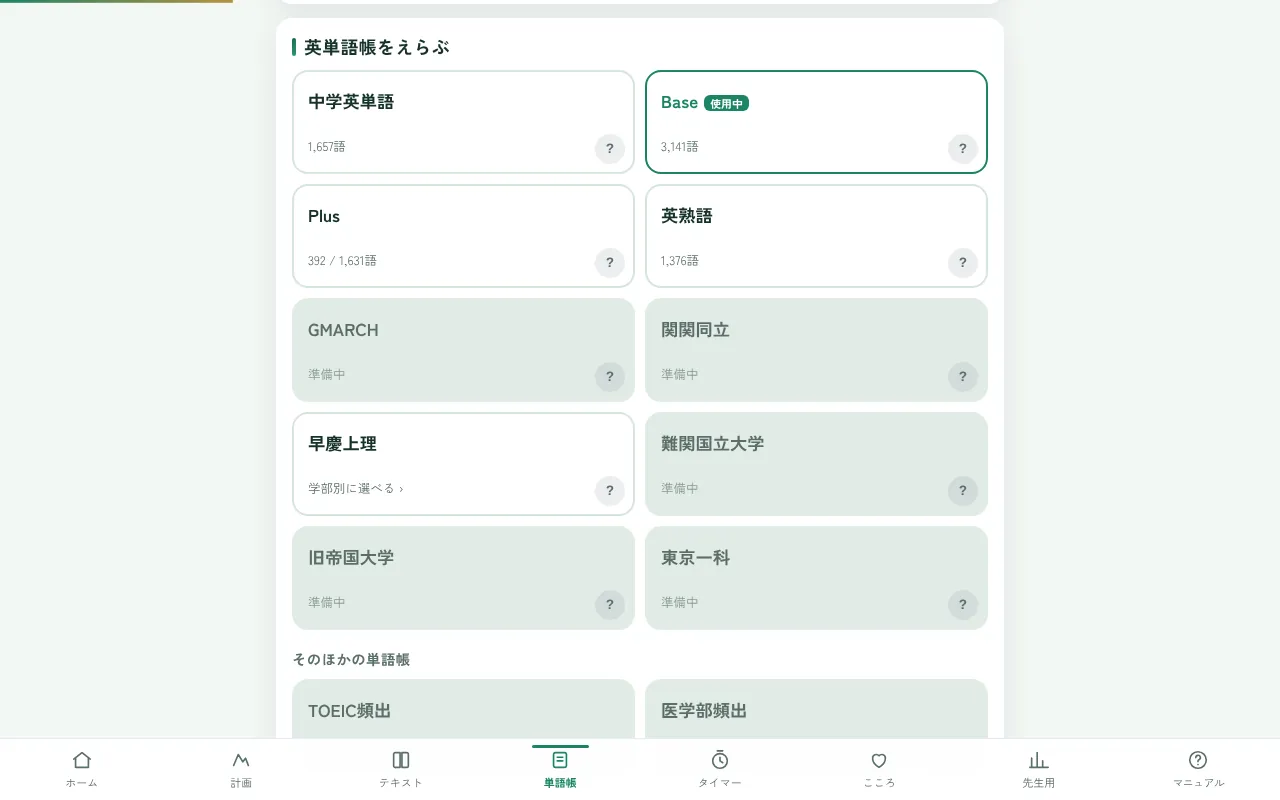
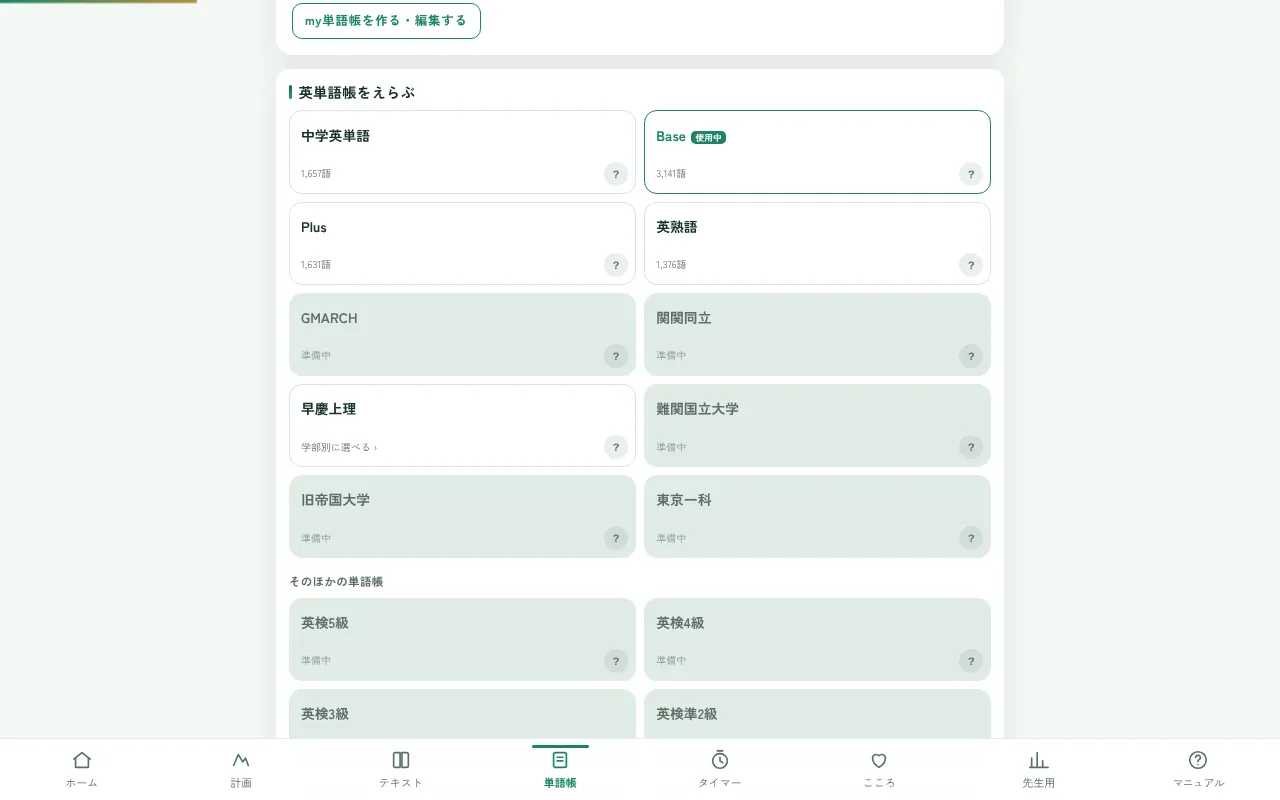
ホームページ:単語帳のハイライト写真を撮り直し(英検の枠を写し、Plusの入力途中の数は写さない)
Claude-Session: https://claude.ai/code/session_01LBACWHU1zm5FViu8vPc4HC

Changed region(s): [[0.2188, 0.0, 0.7812, 0.9062], [0.1562, 0.0, 0.1875, 0.0312]]

diff --git a/home.html b/home.html
@@ -160,13 +160,13 @@
     <li><em>一問一答</em><p><b>344</b><span>問</span></p><small>日本史147問・<br>世界史197問</small></li>
     <li><em>論述</em><p><b>48</b><span>題</span></p><small>歴史の論述<br>トレーニング</small></li>
   </ul>
-  <ul class="hl-circles" aria-label="ハイライト"><li><button type="button" class="hlc" data-hl="0" aria-label="ホーム のハイライトを見る(2枚)"><span class="hlc-ring"><img src="img/hl/home1_s.webp?v=20261109" width="160" height="160" alt="Aqualium アプリの「ホーム」画面" loading="lazy"></span><b>ホーム</b></button></li><li><button type="button" class="hlc" data-hl="1" aria-label="分析 のハイライトを見る(3枚)"><span class="hlc-ring"><img src="img/hl/ana1_s.webp?v=20261109" width="160" height="160" alt="Aqualium アプリの「分析」画面" loading="lazy"></span><b>分析</b></button></li><li><button type="button" class="hlc" data-hl="2" aria-label="テキスト のハイライトを見る(4枚)"><span class="hlc-ring"><img src="img/hl/txt3_s.webp?v=20261109" width="160" height="160" alt="Aqualium アプリの「テキスト」画面" loading="lazy"></span><b>テキスト</b></button></li><li><button type="button" class="hlc" data-hl="3" aria-label="歴史の図解 のハイライトを見る(3枚)"><span class="hlc-ring"><img src="img/hl/zk1_s.webp?v=20261109" width="160" height="160" alt="Aqualium アプリの「歴史の図解」画面" loading="lazy"></span><b>歴史の図解</b></button></li><li><button type="button" class="hlc" data-hl="4" aria-label="解説・資料 のハイライトを見る(3枚)"><span class="hlc-ring"><img src="img/hl/kit1_s.webp?v=20261109" width="160" height="160" alt="Aqualium アプリの「解説・資料」画面" loading="lazy"></span><b>解説・資料</b></button></li><li><button type="button" class="hlc" data-hl="5" aria-label="計画 のハイライトを見る(3枚)"><span class="hlc-ring"><img src="img/hl/plan1_s.webp?v=20261109" width="160" height="160" alt="Aqualium アプリの「計画」画面" loading="lazy"></span><b>計画</b></button></li><li><button type="button" class="hlc" data-hl="6" aria-label="単語帳 のハイライトを見る(3枚)"><span class="hlc-ring"><img src="img/hl/voc1_s.webp?v=20261109" width="160" height="160" alt="Aqualium アプリの「単語帳」画面" loading="lazy"></span><b>単語帳</b></button></li><li><button type="button" class="hlc" data-hl="7" aria-label="日本史・世界史 のハイライトを見る(2枚)"><span class="hlc-ring"><img src="img/hl/his1_s.webp?v=20261109" width="160" height="160" alt="Aqualium アプリの「日本史・世界史」画面" loading="lazy"></span><b>日本史・世界史</b></button></li><li><button type="button" class="hlc" data-hl="8" aria-label="模試モード のハイライトを見る(1枚)"><span class="hlc-ring"><img src="img/hl/mock1_s.webp?v=20261109" width="160" height="160" alt="Aqualium アプリの「模試モード」画面" loading="lazy"></span><b>模試モード</b></button></li><li><button type="button" class="hlc" data-hl="9" aria-label="先生・保護者 のハイライトを見る(2枚)"><span class="hlc-ring"><img src="img/hl/tut1_s.webp?v=20261109" width="160" height="160" alt="Aqualium アプリの「先生・保護者」画面" loading="lazy"></span><b>先生・保護者</b></button></li></ul>
-  <ul class="hl-list fade"><li><button type="button" class="hl-item" data-hl="0"><img class="hl-item-img" src="img/hl/home1_s.webp?v=20261109" width="160" height="160" alt="Aqualium アプリの「ホーム」画面" loading="lazy"><span class="hl-item-n">01</span><b>ホーム</b><small>いま一番効果の高い学習を、アプリが1つだけ示します。迷ったら、ここを押すだけ。</small><em>2枚の画面を見る ▶</em></button></li><li><button type="button" class="hl-item" data-hl="1"><img class="hl-item-img" src="img/hl/ana1_s.webp?v=20261109" width="160" height="160" alt="Aqualium アプリの「分析」画面" loading="lazy"><span class="hl-item-n">02</span><b>分析</b><small>現代文・古文・漢文、日本史・世界史…。科目ごとの正答率をレーダーチャートで。1か月前の自分とも比べられます。</small><em>3枚の画面を見る ▶</em></button></li><li><button type="button" class="hl-item" data-hl="2"><img class="hl-item-img" src="img/hl/txt3_s.webp?v=20261109" width="160" height="160" alt="Aqualium アプリの「テキスト」画面" loading="lazy"><span class="hl-item-n">03</span><b>テキスト</b><small>中学から高校まで、科目ごとの教科書が本棚に並びます。全286単元に、知識ゼロから読める解説。</small><em>4枚の画面を見る ▶</em></button></li><li><button type="button" class="hl-item" data-hl="3"><img class="hl-item-img" src="img/hl/zk1_s.webp?v=20261109" width="160" height="160" alt="Aqualium アプリの「歴史の図解」画面" loading="lazy"><span class="hl-item-n">04</span><b>歴史の図解</b><small>地域ごとの流れと、世界全体をまきこむ大事件を、色ブロックで1枚に。</small><em>3枚の画面を見る ▶</em></button></li><li><button type="button" class="hl-item" data-hl="4"><img class="hl-item-img" src="img/hl/kit1_s.webp?v=20261109" width="160" height="160" alt="Aqualium アプリの「解説・資料」画面" loading="lazy"><span class="hl-item-n">05</span><b>解説・資料</b><small>答えのあとに「ほかの意味」やくわしい解説。元素の周期表と世界地図も、どのページからでも開けます。</small><em>3枚の画面を見る ▶</em></button></li><li><button type="button" class="hl-item" data-hl="5"><img class="hl-item-img" src="img/hl/plan1_s.webp?v=20261109" width="160" height="160" alt="Aqualium アプリの「計画」画面" loading="lazy"><span class="hl-item-n">06</span><b>計画</b><small>志望校と受験日から、残り日数と目標を自動で設定します。</small><em>3枚の画面を見る ▶</em></button></li><li><button type="button" class="hl-item" data-hl="6"><img class="hl-item-img" src="img/hl/voc1_s.webp?v=20261109" width="160" height="160" alt="Aqualium アプリの「単語帳」画面" loading="lazy"><span class="hl-item-n">07</span><b>単語帳</b><small>中学英単語・Base・Plus・英熟語・早慶上理(学部別)・古文単語。苦手だけを集めた「覚える単語帳」も作れます。</small><em>3枚の画面を見る ▶</em></button></li><li><button type="button" class="hl-item" data-hl="7"><img class="hl-item-img" src="img/hl/his1_s.webp?v=20261109" width="160" height="160" alt="Aqualium アプリの「日本史・世界史」画面" loading="lazy"><span class="hl-item-n">08</span><b>日本史・世界史</b><small>時代(ヨコ)と分野(タテ)で範囲をしぼって出題。苦手な問題の聞き流しもできます。</small><em>2枚の画面を見る ▶</em></button></li><li><button type="button" class="hl-item" data-hl="8"><img class="hl-item-img" src="img/hl/mock1_s.webp?v=20261109" width="160" height="160" alt="Aqualium アプリの「模試モード」画面" loading="lazy"><span class="hl-item-n">09</span><b>模試モード</b><small>時間を計って解き、最後にまとめて採点。科目別の得点率と時間配分を分析します。</small><em>1枚の画面を見る ▶</em></button></li><li><button type="button" class="hl-item" data-hl="9"><img class="hl-item-img" src="img/hl/tut1_s.webp?v=20261109" width="160" height="160" alt="Aqualium アプリの「先生・保護者」画面" loading="lazy"><span class="hl-item-n">10</span><b>先生・保護者</b><small>苦手の原因・ミスの傾向・週のまとめを1枚に。授業や面談でそのまま使えます。</small><em>2枚の画面を見る ▶</em></button></li></ul>
+  <ul class="hl-circles" aria-label="ハイライト"><li><button type="button" class="hlc" data-hl="0" aria-label="ホーム のハイライトを見る(2枚)"><span class="hlc-ring"><img src="img/hl/home1_s.webp?v=20261109" width="160" height="160" alt="Aqualium アプリの「ホーム」画面" loading="lazy"></span><b>ホーム</b></button></li><li><button type="button" class="hlc" data-hl="1" aria-label="分析 のハイライトを見る(3枚)"><span class="hlc-ring"><img src="img/hl/ana1_s.webp?v=20261109" width="160" height="160" alt="Aqualium アプリの「分析」画面" loading="lazy"></span><b>分析</b></button></li><li><button type="button" class="hlc" data-hl="2" aria-label="テキスト のハイライトを見る(4枚)"><span class="hlc-ring"><img src="img/hl/txt3_s.webp?v=20261109" width="160" height="160" alt="Aqualium アプリの「テキスト」画面" loading="lazy"></span><b>テキスト</b></button></li><li><button type="button" class="hlc" data-hl="3" aria-label="歴史の図解 のハイライトを見る(3枚)"><span class="hlc-ring"><img src="img/hl/zk1_s.webp?v=20261109" width="160" height="160" alt="Aqualium アプリの「歴史の図解」画面" loading="lazy"></span><b>歴史の図解</b></button></li><li><button type="button" class="hlc" data-hl="4" aria-label="解説・資料 のハイライトを見る(3枚)"><span class="hlc-ring"><img src="img/hl/kit1_s.webp?v=20261109" width="160" height="160" alt="Aqualium アプリの「解説・資料」画面" loading="lazy"></span><b>解説・資料</b></button></li><li><button type="button" class="hlc" data-hl="5" aria-label="計画 のハイライトを見る(3枚)"><span class="hlc-ring"><img src="img/hl/plan1_s.webp?v=20261109" width="160" height="160" alt="Aqualium アプリの「計画」画面" loading="lazy"></span><b>計画</b></button></li><li><button type="button" class="hlc" data-hl="6" aria-label="単語帳 のハイライトを見る(3枚)"><span class="hlc-ring"><img src="img/hl/voc1_s.webp?v=20261109c" width="160" height="160" alt="Aqualium アプリの「単語帳」画面" loading="lazy"></span><b>単語帳</b></button></li><li><button type="button" class="hlc" data-hl="7" aria-label="日本史・世界史 のハイライトを見る(2枚)"><span class="hlc-ring"><img src="img/hl/his1_s.webp?v=20261109" width="160" height="160" alt="Aqualium アプリの「日本史・世界史」画面" loading="lazy"></span><b>日本史・世界史</b></button></li><li><button type="button" class="hlc" data-hl="8" aria-label="模試モード のハイライトを見る(1枚)"><span class="hlc-ring"><img src="img/hl/mock1_s.webp?v=20261109" width="160" height="160" alt="Aqualium アプリの「模試モード」画面" loading="lazy"></span><b>模試モード</b></button></li><li><button type="button" class="hlc" data-hl="9" aria-label="先生・保護者 のハイライトを見る(2枚)"><span class="hlc-ring"><img src="img/hl/tut1_s.webp?v=20261109" width="160" height="160" alt="Aqualium アプリの「先生・保護者」画面" loading="lazy"></span><b>先生・保護者</b></button></li></ul>
+  <ul class="hl-list fade"><li><button type="button" class="hl-item" data-hl="0"><img class="hl-item-img" src="img/hl/home1_s.webp?v=20261109" width="160" height="160" alt="Aqualium アプリの「ホーム」画面" loading="lazy"><span class="hl-item-n">01</span><b>ホーム</b><small>いま一番効果の高い学習を、アプリが1つだけ示します。迷ったら、ここを押すだけ。</small><em>2枚の画面を見る ▶</em></button></li><li><button type="button" class="hl-item" data-hl="1"><img class="hl-item-img" src="img/hl/ana1_s.webp?v=20261109" width="160" height="160" alt="Aqualium アプリの「分析」画面" loading="lazy"><span class="hl-item-n">02</span><b>分析</b><small>現代文・古文・漢文、日本史・世界史…。科目ごとの正答率をレーダーチャートで。1か月前の自分とも比べられます。</small><em>3枚の画面を見る ▶</em></button></li><li><button type="button" class="hl-item" data-hl="2"><img class="hl-item-img" src="img/hl/txt3_s.webp?v=20261109" width="160" height="160" alt="Aqualium アプリの「テキスト」画面" loading="lazy"><span class="hl-item-n">03</span><b>テキスト</b><small>中学から高校まで、科目ごとの教科書が本棚に並びます。全286単元に、知識ゼロから読める解説。</small><em>4枚の画面を見る ▶</em></button></li><li><button type="button" class="hl-item" data-hl="3"><img class="hl-item-img" src="img/hl/zk1_s.webp?v=20261109" width="160" height="160" alt="Aqualium アプリの「歴史の図解」画面" loading="lazy"><span class="hl-item-n">04</span><b>歴史の図解</b><small>地域ごとの流れと、世界全体をまきこむ大事件を、色ブロックで1枚に。</small><em>3枚の画面を見る ▶</em></button></li><li><button type="button" class="hl-item" data-hl="4"><img class="hl-item-img" src="img/hl/kit1_s.webp?v=20261109" width="160" height="160" alt="Aqualium アプリの「解説・資料」画面" loading="lazy"><span class="hl-item-n">05</span><b>解説・資料</b><small>答えのあとに「ほかの意味」やくわしい解説。元素の周期表と世界地図も、どのページからでも開けます。</small><em>3枚の画面を見る ▶</em></button></li><li><button type="button" class="hl-item" data-hl="5"><img class="hl-item-img" src="img/hl/plan1_s.webp?v=20261109" width="160" height="160" alt="Aqualium アプリの「計画」画面" loading="lazy"><span class="hl-item-n">06</span><b>計画</b><small>志望校と受験日から、残り日数と目標を自動で設定します。</small><em>3枚の画面を見る ▶</em></button></li><li><button type="button" class="hl-item" data-hl="6"><img class="hl-item-img" src="img/hl/voc1_s.webp?v=20261109c" width="160" height="160" alt="Aqualium アプリの「単語帳」画面" loading="lazy"><span class="hl-item-n">07</span><b>単語帳</b><small>中学英単語・Base・Plus・英熟語・早慶上理(学部別)・古文単語。苦手だけを集めた「覚える単語帳」も作れます。</small><em>3枚の画面を見る ▶</em></button></li><li><button type="button" class="hl-item" data-hl="7"><img class="hl-item-img" src="img/hl/his1_s.webp?v=20261109" width="160" height="160" alt="Aqualium アプリの「日本史・世界史」画面" loading="lazy"><span class="hl-item-n">08</span><b>日本史・世界史</b><small>時代(ヨコ)と分野(タテ)で範囲をしぼって出題。苦手な問題の聞き流しもできます。</small><em>2枚の画面を見る ▶</em></button></li><li><button type="button" class="hl-item" data-hl="8"><img class="hl-item-img" src="img/hl/mock1_s.webp?v=20261109" width="160" height="160" alt="Aqualium アプリの「模試モード」画面" loading="lazy"><span class="hl-item-n">09</span><b>模試モード</b><small>時間を計って解き、最後にまとめて採点。科目別の得点率と時間配分を分析します。</small><em>1枚の画面を見る ▶</em></button></li><li><button type="button" class="hl-item" data-hl="9"><img class="hl-item-img" src="img/hl/tut1_s.webp?v=20261109" width="160" height="160" alt="Aqualium アプリの「先生・保護者」画面" loading="lazy"><span class="hl-item-n">10</span><b>先生・保護者</b><small>苦手の原因・ミスの傾向・週のまとめを1枚に。授業や面談でそのまま使えます。</small><em>2枚の画面を見る ▶</em></button></li></ul>
   <div class="hl-cta fade">
     <p>気になる機能は見つかりましたか?<br>まずは無料体験で、<br class="sp">実際に使ってみてください。</p>
     <a href="#contact" class="btn btn-primary">無料体験を申し込む</a>
   </div>
-  <script type="application/json" id="hlData">[{"id": "home", "name": "ホーム", "slides": [{"img": "img/hl/home1.webp?v=20261109", "t": "次の一手", "d": "いま一番効果の高い学習を、アプリが1つだけ示します。迷ったら、ここを押すだけ。"}, {"img": "img/hl/home3.webp?v=20261109", "t": "診断・練習", "d": "ホームの上のタブで切りかえ。診断テストで、中学の単元までさかのぼって苦手の原因を探します。"}]}, {"id": "ana", "name": "分析", "slides": [{"img": "img/hl/ana1.webp?v=20261109", "t": "科目バランス", "d": "現代文・古文・漢文、日本史・世界史…。科目ごとの正答率をレーダーチャートで。1か月前の自分とも比べられます。"}, {"img": "img/hl/ana2.webp?v=20261109", "t": "ミスの原因", "d": "「ケアレスミス」「覚えていなかった」など、まちがえた理由を集計。いちばん多い原因と対策がわかります。"}, {"img": "img/hl/ana3.webp?v=20261109", "t": "今週のまとめ", "d": "学習日数・時間・解いた問題・正答率を、先週と比べて表示。伸びたところがひと目でわかります。"}]}, {"id": "txt", "name": "テキスト", "slides": [{"img": "img/hl/txt1.webp?v=20261109", "t": "科目ごとの本棚", "d": "中学から高校まで、科目ごとの教科書が本棚に並びます。続きからすぐ読めます。"}, {"img": "img/hl/txt2.webp?v=20261109", "t": "目次", "d": "章と単元の一覧。読んだ単元・しおり・苦手な単元に印がつきます。"}, {"img": "img/hl/txt3.webp?v=20261109", "t": "知識ゼロから読める本文", "d": "「できるようになること → イメージ → 説明」の順。全286単元に解説があります。"}, {"img": "img/hl/txt4.webp?v=20261109", "t": "黒板の例題", "d": "考え方を1手順ずつ。読み終えたら、そのまま確認問題を解けます。"}]}, {"id": "zk", "name": "歴史の図解", "slides": [{"img": "img/hl/zk1.webp?v=20261109", "t": "世界史の流れ", "d": "地域ごとの流れと、世界全体をまきこむ大事件を、色ブロックで1枚に。"}, {"img": "img/hl/zk2.webp?v=20261109", "t": "模式地図", "d": "清の直轄領・藩部・朝貢国などを、位置関係で整理します。"}, {"img": "img/hl/zk3.webp?v=20261109", "t": "因果の鎖", "d": "背景 → できごと → 結果 → その後。なぜ起きて、どうなったかがつながります。"}]}, {"id": "kit", "name": "解説・資料", "slides": [{"img": "img/hl/kit1.webp?v=20261109", "t": "もっと知る", "d": "答えたあとに、くわしい解説と、語句の「ほかの意味」・使い方を表示。1語から何倍も学べます。"}, {"img": "img/hl/kit2.webp?v=20261109", "t": "元素の周期表", "d": "どのページを開いていても、すぐに呼び出せます。元素を押すと、原子量・分類・常温での状態まで。"}, {"img": "img/hl/kit3.webp?v=20261109", "t": "国名入りの世界地図", "d": "日本中心の地図に、国名と主な都市(首都など約100)。指で拡大・移動でき、国名で探すとその国まで移動します。最小化して勉強と並べて使えます。"}]}, {"id": "plan", "name": "計画", "slides": [{"img": "img/hl/plan1.webp?v=20261109", "t": "逆算ロードマップ", "d": "志望校と受験日から、残り日数と目標を自動で設定します。"}, {"img": "img/hl/plan2.webp?v=20261109", "t": "受験日までのタイムライン", "d": "単元・英単語・古文単語・一問一答の進め方を、1本の線で見渡せます。"}, {"img": "img/hl/plan3.webp?v=20261109", "t": "単元マップ", "d": "全単元の定着度を色で表示。忘れかけている単元もすぐ見つかります。"}]}, {"id": "voc", "name": "単語帳", "slides": [{"img": "img/hl/voc1.webp?v=20261109", "t": "単語帳を選ぶ", "d": "中学英単語・Base・Plus・英熟語・早慶上理(学部別)・古文単語。苦手だけを集めた「覚える単語帳」も作れます。"}, {"img": "img/hl/voc2.webp?v=20261109", "t": "学び方を選ぶ", "d": "赤シート・苦手選別・聞き流し・スワイプなど、気分や場所に合わせて選べます。"}, {"img": "img/hl/voc3.webp?v=20261109", "t": "4択テスト", "d": "テンポよく答えて、まちがえた語は自動で復習に回ります。"}]}, {"id": "his", "name": "日本史・世界史", "slides": [{"img": "img/hl/his1.webp?v=20261109", "t": "一問一答", "d": "時代(ヨコ)と分野(タテ)で範囲をしぼって出題。苦手な問題の聞き流しもできます。"}, {"img": "img/hl/his2.webp?v=20261109", "t": "論述トレーニング", "d": "答えを考えてから、模範解答のキーワードで自己採点します。"}]}, {"id": "mock", "name": "模試モード", "slides": [{"img": "img/hl/mock1.webp?v=20261109", "t": "本番形式の模試", "d": "時間を計って解き、最後にまとめて採点。科目別の得点率と時間配分を分析します。"}]}, {"id": "tut", "name": "先生・保護者", "slides": [{"img": "img/hl/tut1.webp?v=20261109", "t": "指導分析レポート", "d": "苦手の原因・ミスの傾向・週のまとめを1枚に。授業や面談でそのまま使えます。"}, {"img": "img/hl/tut2.webp?v=20261109", "t": "学習の記録", "d": "日別の解答数や科目バランスを、先生・保護者と共有できます。"}]}]</script>
+  <script type="application/json" id="hlData">[{"id": "home", "name": "ホーム", "slides": [{"img": "img/hl/home1.webp?v=20261109", "t": "次の一手", "d": "いま一番効果の高い学習を、アプリが1つだけ示します。迷ったら、ここを押すだけ。"}, {"img": "img/hl/home3.webp?v=20261109", "t": "診断・練習", "d": "ホームの上のタブで切りかえ。診断テストで、中学の単元までさかのぼって苦手の原因を探します。"}]}, {"id": "ana", "name": "分析", "slides": [{"img": "img/hl/ana1.webp?v=20261109", "t": "科目バランス", "d": "現代文・古文・漢文、日本史・世界史…。科目ごとの正答率をレーダーチャートで。1か月前の自分とも比べられます。"}, {"img": "img/hl/ana2.webp?v=20261109", "t": "ミスの原因", "d": "「ケアレスミス」「覚えていなかった」など、まちがえた理由を集計。いちばん多い原因と対策がわかります。"}, {"img": "img/hl/ana3.webp?v=20261109", "t": "今週のまとめ", "d": "学習日数・時間・解いた問題・正答率を、先週と比べて表示。伸びたところがひと目でわかります。"}]}, {"id": "txt", "name": "テキスト", "slides": [{"img": "img/hl/txt1.webp?v=20261109", "t": "科目ごとの本棚", "d": "中学から高校まで、科目ごとの教科書が本棚に並びます。続きからすぐ読めます。"}, {"img": "img/hl/txt2.webp?v=20261109", "t": "目次", "d": "章と単元の一覧。読んだ単元・しおり・苦手な単元に印がつきます。"}, {"img": "img/hl/txt3.webp?v=20261109", "t": "知識ゼロから読める本文", "d": "「できるようになること → イメージ → 説明」の順。全286単元に解説があります。"}, {"img": "img/hl/txt4.webp?v=20261109", "t": "黒板の例題", "d": "考え方を1手順ずつ。読み終えたら、そのまま確認問題を解けます。"}]}, {"id": "zk", "name": "歴史の図解", "slides": [{"img": "img/hl/zk1.webp?v=20261109", "t": "世界史の流れ", "d": "地域ごとの流れと、世界全体をまきこむ大事件を、色ブロックで1枚に。"}, {"img": "img/hl/zk2.webp?v=20261109", "t": "模式地図", "d": "清の直轄領・藩部・朝貢国などを、位置関係で整理します。"}, {"img": "img/hl/zk3.webp?v=20261109", "t": "因果の鎖", "d": "背景 → できごと → 結果 → その後。なぜ起きて、どうなったかがつながります。"}]}, {"id": "kit", "name": "解説・資料", "slides": [{"img": "img/hl/kit1.webp?v=20261109", "t": "もっと知る", "d": "答えたあとに、くわしい解説と、語句の「ほかの意味」・使い方を表示。1語から何倍も学べます。"}, {"img": "img/hl/kit2.webp?v=20261109", "t": "元素の周期表", "d": "どのページを開いていても、すぐに呼び出せます。元素を押すと、原子量・分類・常温での状態まで。"}, {"img": "img/hl/kit3.webp?v=20261109", "t": "国名入りの世界地図", "d": "日本中心の地図に、国名と主な都市(首都など約100)。指で拡大・移動でき、国名で探すとその国まで移動します。最小化して勉強と並べて使えます。"}]}, {"id": "plan", "name": "計画", "slides": [{"img": "img/hl/plan1.webp?v=20261109", "t": "逆算ロードマップ", "d": "志望校と受験日から、残り日数と目標を自動で設定します。"}, {"img": "img/hl/plan2.webp?v=20261109", "t": "受験日までのタイムライン", "d": "単元・英単語・古文単語・一問一答の進め方を、1本の線で見渡せます。"}, {"img": "img/hl/plan3.webp?v=20261109", "t": "単元マップ", "d": "全単元の定着度を色で表示。忘れかけている単元もすぐ見つかります。"}]}, {"id": "voc", "name": "単語帳", "slides": [{"img": "img/hl/voc1.webp?v=20261109c", "t": "単語帳を選ぶ", "d": "中学英単語・Base・Plus・英熟語・早慶上理(学部別)・古文単語。苦手だけを集めた「覚える単語帳」も作れます。"}, {"img": "img/hl/voc2.webp?v=20261109c", "t": "学び方を選ぶ", "d": "赤シート・苦手選別・聞き流し・スワイプなど、気分や場所に合わせて選べます。"}, {"img": "img/hl/voc3.webp?v=20261109c", "t": "4択テスト", "d": "テンポよく答えて、まちがえた語は自動で復習に回ります。"}]}, {"id": "his", "name": "日本史・世界史", "slides": [{"img": "img/hl/his1.webp?v=20261109", "t": "一問一答", "d": "時代(ヨコ)と分野(タテ)で範囲をしぼって出題。苦手な問題の聞き流しもできます。"}, {"img": "img/hl/his2.webp?v=20261109", "t": "論述トレーニング", "d": "答えを考えてから、模範解答のキーワードで自己採点します。"}]}, {"id": "mock", "name": "模試モード", "slides": [{"img": "img/hl/mock1.webp?v=20261109", "t": "本番形式の模試", "d": "時間を計って解き、最後にまとめて採点。科目別の得点率と時間配分を分析します。"}]}, {"id": "tut", "name": "先生・保護者", "slides": [{"img": "img/hl/tut1.webp?v=20261109", "t": "指導分析レポート", "d": "苦手の原因・ミスの傾向・週のまとめを1枚に。授業や面談でそのまま使えます。"}, {"img": "img/hl/tut2.webp?v=20261109", "t": "学習の記録", "d": "日別の解答数や科目バランスを、先生・保護者と共有できます。"}]}]</script>
 </section>
 
 <!-- ========== Point ========== -->

diff --git a/sw.js b/sw.js
@@ -4,7 +4,7 @@
  *  ・対応ブラウザでは、アプリを閉じていても1時間ごとに連続記録をチェックし、
  *    学習がまだなら通知します(Periodic Background Sync)。
  */
-var CACHE = 'wps-v250';
+var CACHE = 'wps-v251';
 var FILES = [
   './', './index.html', './manual.html', './home.html', './css/style.css', './css/home.css', './js/home.js',
   './js/data/units.js', './js/data/units_extra.js', './js/data/units_more.js', './js/data/units_math.js', './js/data/units_extra2.js', './js/data/units_extra3.js', './js/data/units_adv.js', './js/data/units_hard.js', './js/data/banks_lang.js', './js/data/banks_sci_soc.js', './js/data/banks_more.js', './js/data/vocab_jh.js', './js/data/vocab_idiom.js', './js/data/vocab_idiom2.js', './js/data/vocab_sci.js', './js/data/vocab_merge.js', './js/data/vocab_kobun.js', './js/data/vocab_books.js', './js/data/emoji.js', './js/data/history_ctx.js',
